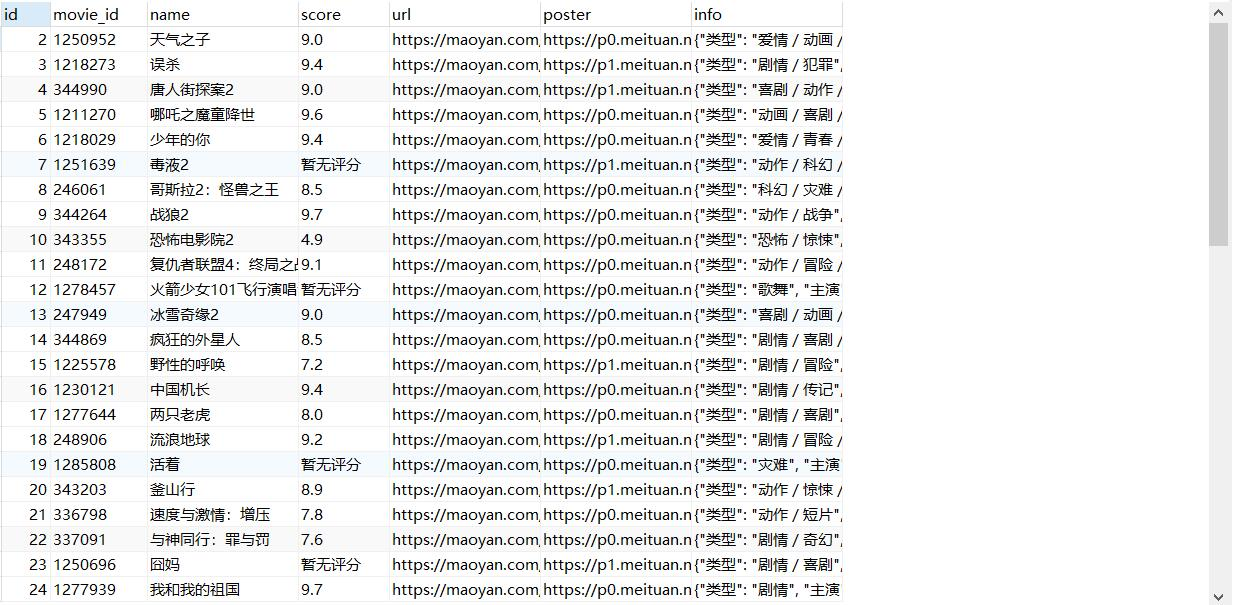
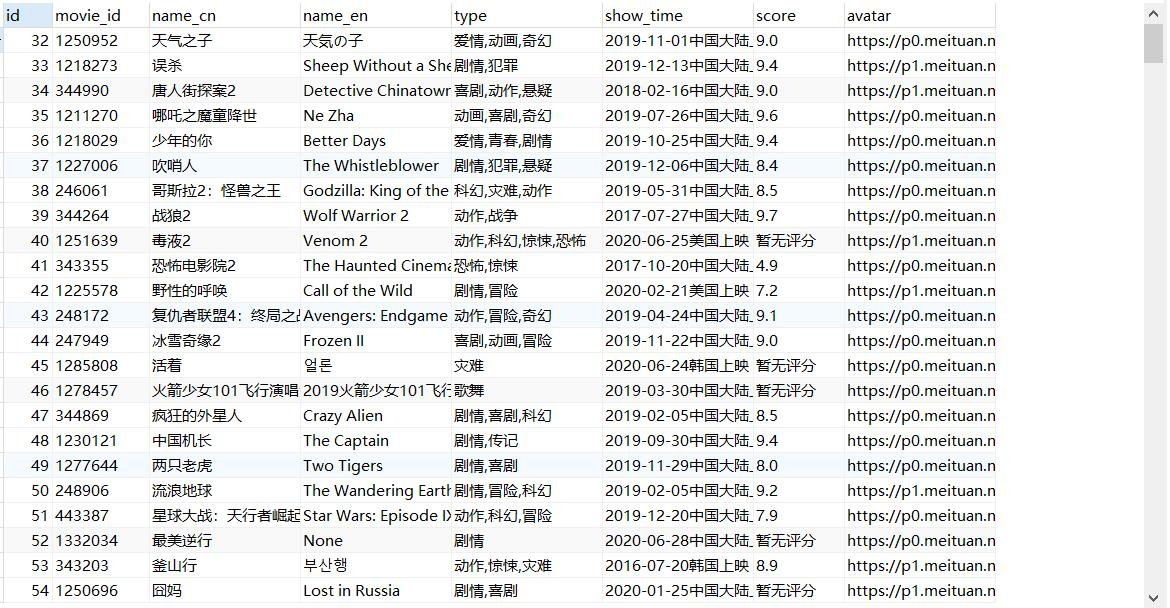
week02 改为从手机端爬取

Changed region(s): [[0.0, 0.0, 0.8615, 1.0], [0.9538, 0.0, 1.0, 0.4165], [0.9846, 0.9818, 1.0, 1.0]]

diff --git a/week02/code/maoyan_movie/maoyan_movie/spiders/crawl_maoyan_movie.py b/week02/code/maoyan_movie/maoyan_movie/spiders/crawl_maoyan_movie.py
@@ -2,6 +2,7 @@
 import json
 
 import scrapy
+from furl import furl
 from twisted.python.failure import Failure
 
 from ..items import MaoyanMovieItem
@@ -16,60 +17,56 @@ class MaoyanMovieSpider(scrapy.Spider):
             'Connection': 'keep-alive',
             'Pragma': 'no-cache',
             'Cache-Control': 'no-cache',
-            'Upgrade-Insecure-Requests': '1',
+            'Accept': 'text/plain, */*; q=0.01',
             'DNT': '1',
-            'User-Agent': 'Mozilla/5.0 (Windows NT 10.0; WOW64) AppleWebKit/537.36 (KHTML, like Gecko) Chrome/78.0.3904.108 Safari/537.36',
-            'Sec-Fetch-User': '?1',
-            'Accept': 'text/html,application/xhtml+xml,application/xml;q=0.9,image/webp,image/apng,*/*;q=0.8,application/signed-exchange;v=b3',
-            'Sec-Fetch-Site': 'cross-site',
-            'Sec-Fetch-Mode': 'navigate',
+            'X-Requested-With': 'XMLHttpRequest',
+            'User-Agent': 'Mozilla/5.0 (iPhone; CPU iPhone OS 11_0 like Mac OS X) AppleWebKit/604.1.38 (KHTML, like Gecko) Version/11.0 Mobile/15A372 Safari/604.1',
+            'Sec-Fetch-Site': 'same-origin',
+            'Sec-Fetch-Mode': 'cors',
             'Accept-Encoding': 'gzip, deflate, br',
             'Accept-Language': 'zh-CN,zh;q=0.9,en;q=0.8',
-            'Cookie': 'uuid_n_v=v1; uuid=922FF590B88111EAA1F189776DB49E05F99C6E83AF29404581A9B8FFB1A3AA86; _csrf=e02fd6917a889a2abd8ee26f0c45f78557d0f1ff00bf3ae4a2de87f17e3a815a; Hm_lvt_703e94591e87be68cc8da0da7cbd0be2=1593071575,1593071665,1593071730,1593074417; Hm_lpvt_703e94591e87be68cc8da0da7cbd0be2=1593267725; _lxsdk_cuid=172e9578d9fa8-090927fc871c2d-376b4502-1fa400-172e9578da0c8; _lxsdk=922FF590B88111EAA1F189776DB49E05F99C6E83AF29404581A9B8FFB1A3AA86; mojo-uuid=bffd4a534711b42d9c8a3c961673a0d2; mojo-session-id={"id":"7e915bd24e819739d43a6e4bc7cf5e4a","time":1593267725629}; mojo-trace-id=1; __mta=44389915.1593267725645.1593267725645.1593267725645.1; _lxsdk_s=172f6281cef-8da-3a8-ac9%7C%7C3'
+            'Cookie': 'Hm_lvt_703e94591e87be68cc8da0da7cbd0be2=1593071575,1593071665,1593071730,1593074417; _lxsdk_cuid=172e9578d9fa8-090927fc871c2d-376b4502-1fa400-172e9578da0c8; _lxsdk=922FF590B88111EAA1F189776DB49E05F99C6E83AF29404581A9B8FFB1A3AA86; Hm_lpvt_703e94591e87be68cc8da0da7cbd0be2=1593430757; __mta=44389915.1593267725645.1593267850174.1593430757827.4; _lxsdk_s=172ffdfce9b-3b9-0eb-5e3%7C%7C2; uuid_n_v=v1; iuuid=451797E0B9FD11EAA91D41CC1BE79A36DC721E79AA674189B10EEC240568152A; webp=true; ci=50%2C%E6%9D%AD%E5%B7%9E; sajssdk_2015_cross_new_user=1; sensorsdata2015jssdkcross=%7B%22distinct_id%22%3A%22172ffe08ace1d6-05b9eea18d0a5-2d604637-304500-172ffe08acf262%22%2C%22first_id%22%3A%22%22%2C%22props%22%3A%7B%22%24latest_traffic_source_type%22%3A%22%E7%9B%B4%E6%8E%A5%E6%B5%81%E9%87%8F%22%2C%22%24latest_search_keyword%22%3A%22%E6%9C%AA%E5%8F%96%E5%88%B0%E5%80%BC_%E7%9B%B4%E6%8E%A5%E6%89%93%E5%BC%80%22%2C%22%24latest_referrer%22%3A%22%22%7D%2C%22%24device_id%22%3A%22172ffe08ace1d6-05b9eea18d0a5-2d604637-304500-172ffe08acf262%22%7D'
         }
 
     def start_requests(self):
-        url = 'https://maoyan.com/films?showType=3&offset=0'
-        # 增加错误回调函数
-        yield scrapy.Request(url, headers=self.headers, errback=self.errback)
+        base_url = "https://m.maoyan.com/ajax/moreClassicList"
+        params = {
+            'sortId': '1',
+            'showType': '3',
+            'limit': 100,
+            'offset': 0,
[1 lines of base64/hex data omitted]
+            'optimus_risk_level': '71',
+            'optimus_code': '10'
+        }
+        f_url = furl(base_url).add(params)
+        yield scrapy.Request(f_url.url, meta={'f_url': f_url}, headers=self.headers, errback=self.errback)
 
     def parse(self, response):
-        self.logger.info(f"proxy: {response.meta['proxy']}")
-        if 'verify' not in response.url:
-            dd = response.xpath("//div[@class='movies-list']/dl[@class='movie-list']/dd")
-            # html 中 <dd> 没有闭合标签, 使用 Selector 后, 自动补上 </dd>, 但每个 <dd> 标签已不是并列的, 而是层层嵌套
-            while True:
-                movie_item = dd.xpath("div[contains(@class, 'movie-item')]")
-                movie_id = movie_item.xpath("a/@data-val").re_first(r"\d+")
-                movie_url = f"https://maoyan.com/films/{movie_id}"
-                # poster = movie_item.xpath("a/div[@class='movie-poster']/img[last()]/@data-src").get()  # 160*220
-                poster = movie_item.xpath("div[@class='movie-item-hover']/a/img/@src").get()  # 218*300
-
-                name = dd.xpath("div[contains(@class, 'movie-item-title')]/@title").get()
-                score = dd.xpath("div[contains(@class, 'channel-detail channel-detail-orange')]//text()").getall()
-                score = ''.join(score)
-
-                # 类型, 主演, 上映时间
-                info = {}
-                for div in movie_item.xpath("div[@class='movie-item-hover']//div[@class='movie-hover-info']/div")[1:]:
-                    t = div.xpath(".//text()").getall()
-                    t = [i.strip() for i in t if i and i.strip()]
-                    t = ''.join(t)
-                    k, v = t.split(':', 1)
-                    info.update({k: v})
-
+        f_url = response.meta['f_url']
+        if response.css("body > a div.classic-movie"):
+            for a in response.css("body > a"):
+                movie_id = a.re_first(r"\d+")
+                div = a.css("div.classic-movie")
+                avatar = div.css("div.avatar img::attr(src)").get()
+                name_cn = div.css("div.movie-info div.title::text").get()
+                name_en = div.css("div.movie-info div.english-title::text").get()
+                type_ = div.css("div.movie-info div.actors::text").get()
+                show_time = div.css("div.movie-info div.show-info::text").get()
+                score = div.css("div.movie-score div.score span.grade::text").get()
+                no_score = div.css("div.movie-score div.no-score::text").get()
                 item = MaoyanMovieItem()
                 item['movie_id'] = movie_id
-                item['name'] = name
-                item['score'] = score
-                item['info'] = info
-                item['url'] = movie_url
-                item['poster'] = poster
+                item['name_cn'] = name_cn
+                item['name_en'] = name_en
+                item['type'] = type_
+                item['show_time'] = show_time
+                item['score'] = score or no_score
+                item['avatar'] = avatar
                 yield item
 
-                dd = dd.xpath('./dd')
-                if not dd:
-                    break
+            f_url.args['offset'] += f_url.args['limit']
+            yield scrapy.Request(f_url.url, meta={'f_url': f_url}, headers=self.headers, errback=self.errback)
 
     def errback(self, failure: Failure):
         """

diff --git a/week02/code/maoyan_movie/maoyan_movie/settings.py b/week02/code/maoyan_movie/maoyan_movie/settings.py
@@ -111,13 +111,14 @@ USE maoyan;
 CREATE TABLE `movie` (
   `id` int(10) unsigned NOT NULL AUTO_INCREMENT,
   `movie_id` varchar(50) COLLATE utf8mb4_general_ci DEFAULT NULL,
-  `name` varchar(255) CHARACTER SET utf8mb4 COLLATE utf8mb4_general_ci DEFAULT NULL,
-  `score` varchar(255) CHARACTER SET utf8mb4 COLLATE utf8mb4_general_ci DEFAULT NULL,
-  `url` varchar(255) CHARACTER SET utf8mb4 COLLATE utf8mb4_general_ci DEFAULT NULL,
-  `poster` varchar(512) CHARACTER SET utf8mb4 COLLATE utf8mb4_general_ci DEFAULT NULL,
-  `info` varchar(1024) CHARACTER SET utf8mb4 COLLATE utf8mb4_general_ci DEFAULT NULL,
+  `name_cn` varchar(255) COLLATE utf8mb4_general_ci DEFAULT NULL,
+  `name_en` varchar(255) COLLATE utf8mb4_general_ci DEFAULT NULL,
+  `type` varchar(255) COLLATE utf8mb4_general_ci DEFAULT NULL,
+  `show_time` varchar(255) COLLATE utf8mb4_general_ci DEFAULT NULL,
+  `score` varchar(255) COLLATE utf8mb4_general_ci DEFAULT NULL,
+  `avatar` varchar(512) COLLATE utf8mb4_general_ci DEFAULT NULL,
   PRIMARY KEY (`id`)
-) ENGINE=InnoDB AUTO_INCREMENT=2 DEFAULT CHARSET=utf8mb4 COLLATE=utf8mb4_general_ci;
+) ENGINE=InnoDB AUTO_INCREMENT=32 DEFAULT CHARSET=utf8mb4 COLLATE=utf8mb4_general_ci;
 '''
 MYSQL_HOST = 'localhost'
 MYSQL_DATABASE = 'maoyan'

diff --git a/week02/code/maoyan_movie/maoyan_movie/pipelines.py b/week02/code/maoyan_movie/maoyan_movie/pipelines.py
@@ -4,7 +4,6 @@
 #
 # Don't forget to add your pipeline to the ITEM_PIPELINES setting
 # See: https://doc.scrapy.org/en/latest/topics/item-pipeline.html
-import json
 
 import pymysql
 
@@ -37,11 +36,11 @@ class MysqlPipeline():
         self.db.close()
 
     def process_item(self, item, spider):
-        sql_fmt = """INSERT INTO `{}`(`movie_id`, `name`, `score`, `url`, `poster`, `info`) VALUES ('{}', '{}', '{}', '{}', '{}', '{}');"""
-        sql = sql_fmt.format(self.table,
-                             item['movie_id'], item['name'],
-                             item['score'], item['url'],
-                             item['poster'], json.dumps(item['info'], ensure_ascii=False),
+        sql_fmt = ("""INSERT INTO `{}`(`movie_id`, `name_cn`, `name_en`, `type`, `show_time`, `score`, `avatar`) 
+                    VALUES ('{}', '{}', '{}', '{}', '{}', '{}', '{}');""")
+        sql = sql_fmt.format(self.table, item['movie_id'], item['name_cn'],
+                             item['name_en'], item['type'], item['show_time'],
+                             item['score'], item['avatar'],
                              )
         self.cursor.execute(sql)
         self.db.commit()

diff --git a/week02/code/maoyan_movie/maoyan_movie/items.py b/week02/code/maoyan_movie/maoyan_movie/items.py
@@ -10,8 +10,9 @@ from scrapy import Field, Item
 
 class MaoyanMovieItem(Item):
     movie_id = Field()
-    name = Field()
+    name_cn = Field()
+    name_en = Field()
+    type = Field()
+    show_time = Field()
     score = Field()
-    url = Field()
-    poster = Field()
-    info = Field()
+    avatar = Field()
